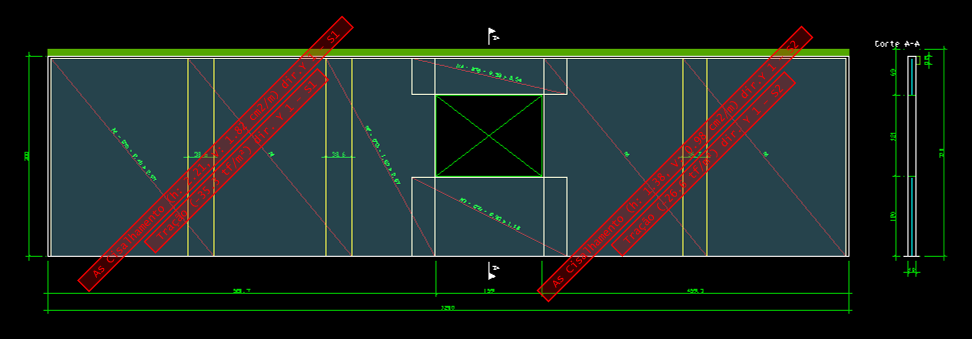
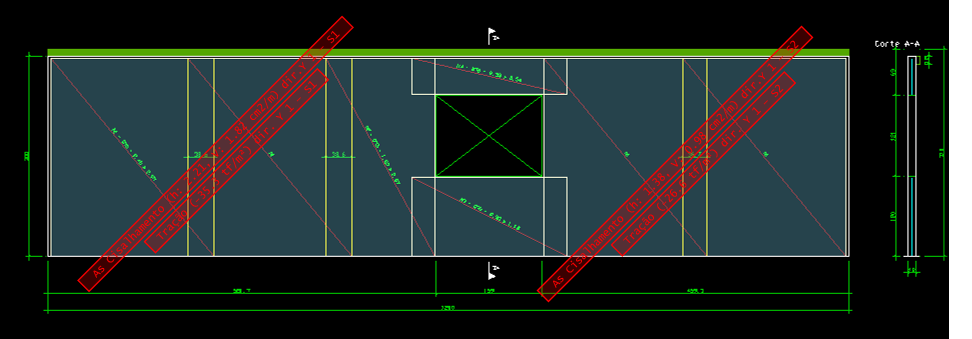
Melhorias no sistema de scroll fade e ajustes de conteúdo
- Sistema de scroll fade com duração customizável por card (data-duration)
- Correções tipográficas (P-Δ, λ₀, simplificar em negrito)
- Atualização de imagens de paredes de concreto
- Ajustes de CSS (logo display, text-shadow comentado)

🤖 Generated with [Claude Code](https://claude.com/claude-code)

Changed region(s): [[0.9568, 0.0, 1.0, 1.0]]

diff --git a/index.html b/index.html
@@ -560,7 +560,7 @@
 
                 <div class="resources-grid--scroll-fade">
 
-                    <div class="card card--overlay card--transparent no-vertical-margin card--overlay-right">
+                    <div class="card card--overlay card--transparent no-vertical-margin card--overlay-right" data-duration="50">
                         <div class="card__title">
                             <h3 class="text-tqs-blue" class>Normas Técnicas</h3>
                             <p>Atenção às revisões normativas.</p>
@@ -573,14 +573,14 @@
                         </div>
                     </div>
 
-                    <div class="card card--overlay card--transparent no-vertical-margin card--overlay-right">
+                    <div class="card card--overlay card--transparent no-vertical-margin card--overlay-right" data-duration="100">
                         <div class="card__title">
                             <h3 class="text-tqs-blue" class>Normas Técnicas</h3>
                             <p>Atenção às revisões normativas.</p>
                         </div>
                         <div class="card__content">
                             <div class="card__description">
-                                <b class="text-tqs-blue">NBR 8681</b><br>
+                                <br><br><br><b class="text-tqs-blue">NBR 8681</b><br>
                                 <p>A recém publicada norma-mãe de ações e segurança tem diferenças pontuais em relação à NBR 6118 no que se refere aos ponderadores das cargas nas combinações últimas normais (ELU).</p>
                                 <p>Nos <strong>Dados do Edifício</strong>, foram criadas opções para facilitar a definição desses ponderadores.</p>
                                 <img src="images/Normas-2.png" alt="Normas">
@@ -591,7 +591,7 @@
                         </div>
                     </div>
 
-                    <div class="card card--overlay card--transparent no-vertical-margin card--overlay-right">
+                    <div class="card card--overlay card--transparent no-vertical-margin card--overlay-right" data-duration="50">
                         <div class="card__title">
                             <h3 class="text-tqs-blue" class>Normas Técnicas</h3>
                             <p>Atenção às revisões normativas.</p>
@@ -906,7 +906,7 @@
 
                             <div class="card__content">
                                 <p class="card__description">
-                                    A malha do pilar-parede discretizado foi incorporada ao pórtico espacial principal (antes, estava nas subestruturas) para uma análise P-D levemente mais precisa. Seleção de modelo ELU ou ELS no Visualizador de Análise Dinâmica.
+                                    A malha do pilar-parede discretizado foi incorporada ao pórtico espacial principal (antes, estava nas subestruturas) para uma análise P-Δ levemente mais precisa. Seleção de modelo ELU ou ELS no Visualizador de Análise Dinâmica.
                                 </p>
                             </div>
 
@@ -1773,7 +1773,7 @@
                             <h4 class="card__title">A revisão impacta as formulações de todos os elementos metálicos e mistos tratados pelo MetalCheck</h4>
                             <p class="card__description">
                                 <br>
-                                <strong>Compressão:</strong><br>A formulação do índice de esbeltez <strong>λ<sub>0</sub></strong> foi revisado, alterando também a força normal resistente <strong>N<sub>c,Rd</sub></strong>; <br><br>
+                                <strong>Compressão:</strong><br>A formulação do índice de esbeltez <strong>λ<sub>0</sub></strong> foi revisada, alterando também a força normal resistente <strong>N<sub>c,Rd</sub></strong>; <br><br>
                                 <strong>Força cortente:</strong><br>O cálculo do coeficiente <strong>K<sub>v</sub></strong> foi revisado alterando a força cortante resistente <strong>V<sub>Rd</sub></strong>; <br><br>
                                 <strong>Momento fletor:</strong><br>Sofreu algumas alterações, dentre elas a determinação do coeficiente <strong>C<sub>b</sub></strong> que impacta diretamente no momento fletor resistente <strong>M<sub>Rd</sub></strong>.<br>Em nossos testes, evidenciamos alterações de até 20% no valor resistente; <br><br>
                                 <strong>Pilares mistos:</strong><br>Foi fortemente revisado, com alterações diretas no cálculo da normal resistente de cálculo <strong>N<sub>c,Rd</sub></strong>
@@ -1905,7 +1905,7 @@
                                 Novo Editor de Dados de Sondagens
                             </h3>
                             <p>
-                                Reescrito para simplificar o processo de criação e inserção dos dados relacionados a sondagens
+                                Reescrito para <strong>simplificar</strong> o processo de criação e inserção dos dados relacionados a sondagens
                                 e camadas de solo, o novo editor reúne tudo em uma única janela, com preenchimento mais rápido
                                 e intuitivo.
                             </p>

diff --git a/main.js b/main.js
@@ -154,7 +154,7 @@ document.querySelectorAll('a[href^="#"]').forEach(anchor => {
                 navMenu.classList.remove('active');
                 if (hamburger) hamburger.classList.remove('active');
                 if (overlay) overlay.classList.remove('active');
-                document.body.style.overflow = 'auto';
+                //document.body.style.overflow = 'auto';
             }
 
             window.scrollTo({
@@ -1497,13 +1497,20 @@ function setupScrollFadeCards(originalElement, cards) {
     // (os dots são usados apenas em carousels tradicionais)
 
     stickyContainer.appendChild(contentArea);
-    
-    // Altura FIXA por card - rolagem uniforme independente da quantidade
+
+    // Altura por card - permite controle individual via data-duration
     const totalCards = cards.length;
-    const heightPerCard = 100; // 100vh por card = rolagem consistente entre todos os cards
-    const totalHeight = heightPerCard * totalCards;
+    const cardDurations = []; // Duração em vh de cada card
+    let totalHeight = 0;
+
+    // Ler duração de cada card (data-duration em vh, padrão 100vh)
+    cards.forEach((card) => {
+        const duration = parseInt(card.dataset.duration) || 100;
+        cardDurations.push(duration);
+        totalHeight += duration;
+    });
     originalElement.style.height = `${totalHeight}vh`;
-    
+
     // Substituir elemento original
     originalElement.innerHTML = '';
     originalElement.appendChild(stickyContainer);
@@ -1580,14 +1587,31 @@ function setupScrollFadeCards(originalElement, cards) {
             const maxScroll = elementHeight - viewportHeight;
             let scrollPercent = Math.min(Math.max(scrolledIntoSection / maxScroll, 0), 1);
             
-            // Sistema uniforme: cada card ocupa exatamente o mesmo espaço de scroll
-            const viewTime = 0.85; // 85% do tempo para visualizar sem transição  
+            // Sistema com durações personalizáveis: cada card ocupa espaço proporcional ao data-duration
+            const viewTime = 0.85; // 85% do tempo para visualizar sem transição
             const transitionTime = 0.15; // 15% do tempo para transição (MUITO mais rápida - metade de 0.3)
-            const segmentSize = 1 / totalCards; // Cada card ocupa proporção igual do scroll total
-            
+
+            // Calcular segmentos proporcionais baseados em cardDurations
+            const cardSegments = [];
+            let cumulativeHeight = 0;
+
+            cardDurations.forEach((duration) => {
+                const segmentStart = cumulativeHeight / totalHeight;
+                cumulativeHeight += duration;
+                const segmentEnd = cumulativeHeight / totalHeight;
+                const segmentSize = segmentEnd - segmentStart;
+
+                cardSegments.push({
+                    start: segmentStart,
+                    end: segmentEnd,
+                    size: segmentSize
+                });
+            });
+
             let cardPosition = 0;
             let fadeProgress = 0;
-            
+
+
             // Caso especial: se chegou ao final, mostrar último card com opacidade total SEM ANIMAÇÃO
             if (scrollPercent >= 0.9) {
                 cardPosition = totalCards - 1;
@@ -1595,12 +1619,11 @@ function setupScrollFadeCards(originalElement, cards) {
             } else {
                 // Para cada card, calcular zona de visualização vs transição
                 for (let i = 0; i < totalCards; i++) {
-                    const segmentStart = i * segmentSize;
-                    const segmentEnd = (i + 1) * segmentSize;
-                    
-                    if (scrollPercent >= segmentStart && scrollPercent <= segmentEnd) {
-                        const segmentProgress = (scrollPercent - segmentStart) / segmentSize;
-                        
+                    const segment = cardSegments[i];
+
+                    if (scrollPercent >= segment.start && scrollPercent <= segment.end) {
+                        const segmentProgress = (scrollPercent - segment.start) / segment.size;
+
                         if (segmentProgress <= viewTime) {
                             // Zona de visualização - card 100% opaco, sem transição
                             cardPosition = i;

diff --git a/styles.css b/styles.css
@@ -1293,8 +1293,14 @@ img {
     margin: 0 auto;
 }
 
+.nav-logo {
+    display: flex;
+    align-items: center;
+}
+
 .logo {
     height: 40px;
+    display: block;
 }
 
 .nav-menu {
@@ -5039,8 +5045,8 @@ kbd {
     background: none;
     /* Sombra escura para criar separação */
     text-shadow: 0 2px 10px rgba(0, 0, 0, 0.7);
-    / -webkit-background-clip: text;
-    background-clip: text;
+    /* -webkit-background-clip: text; */
+    /* background-clip: text; */
 }
 
 /* Um azul-acinzentado, que recua para o fundo, indicando baixa prioridade */
